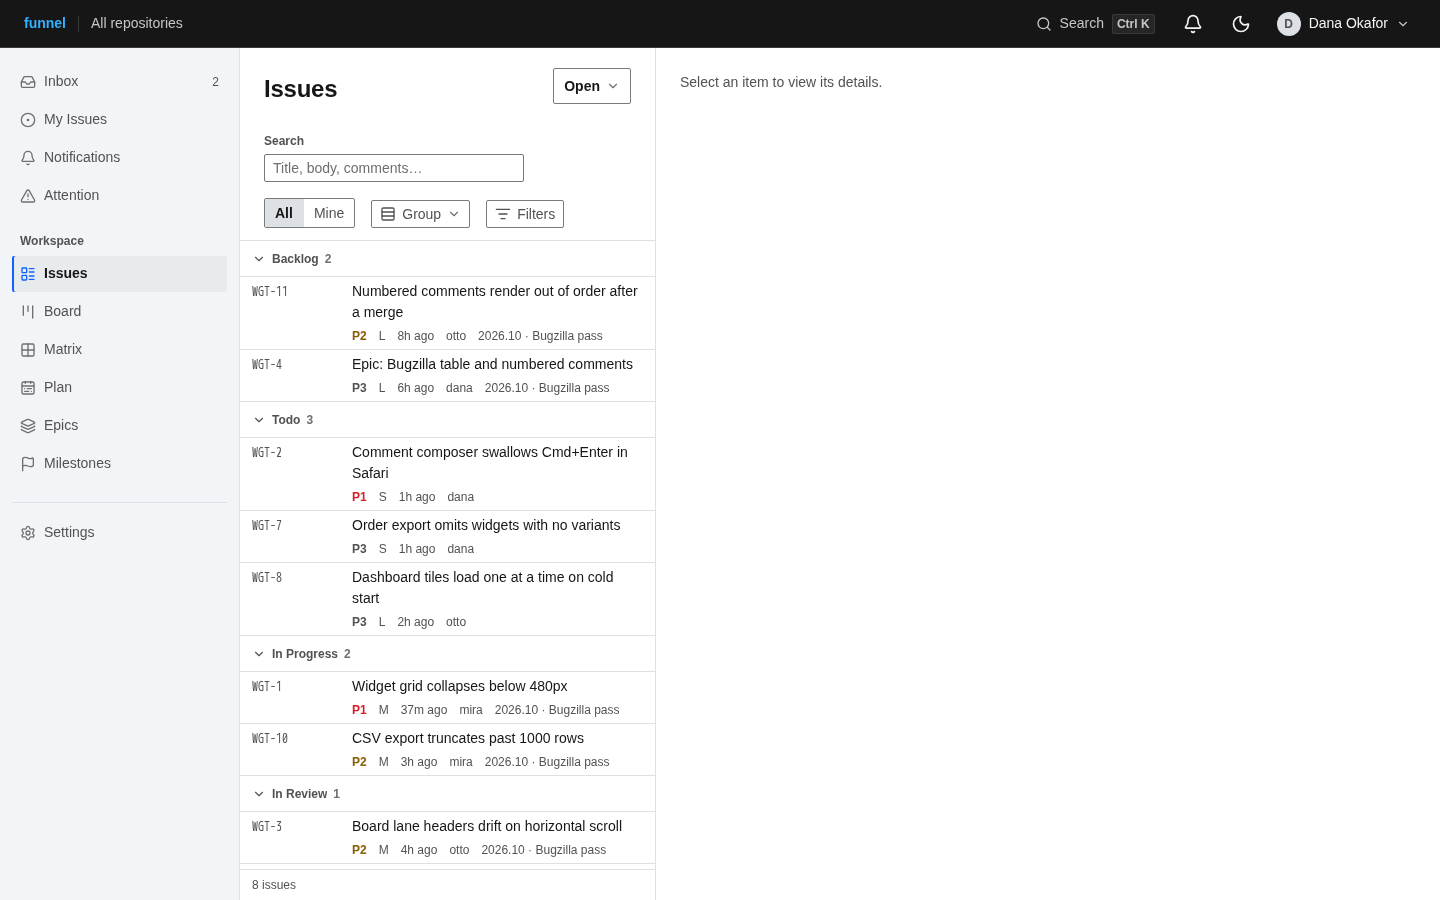
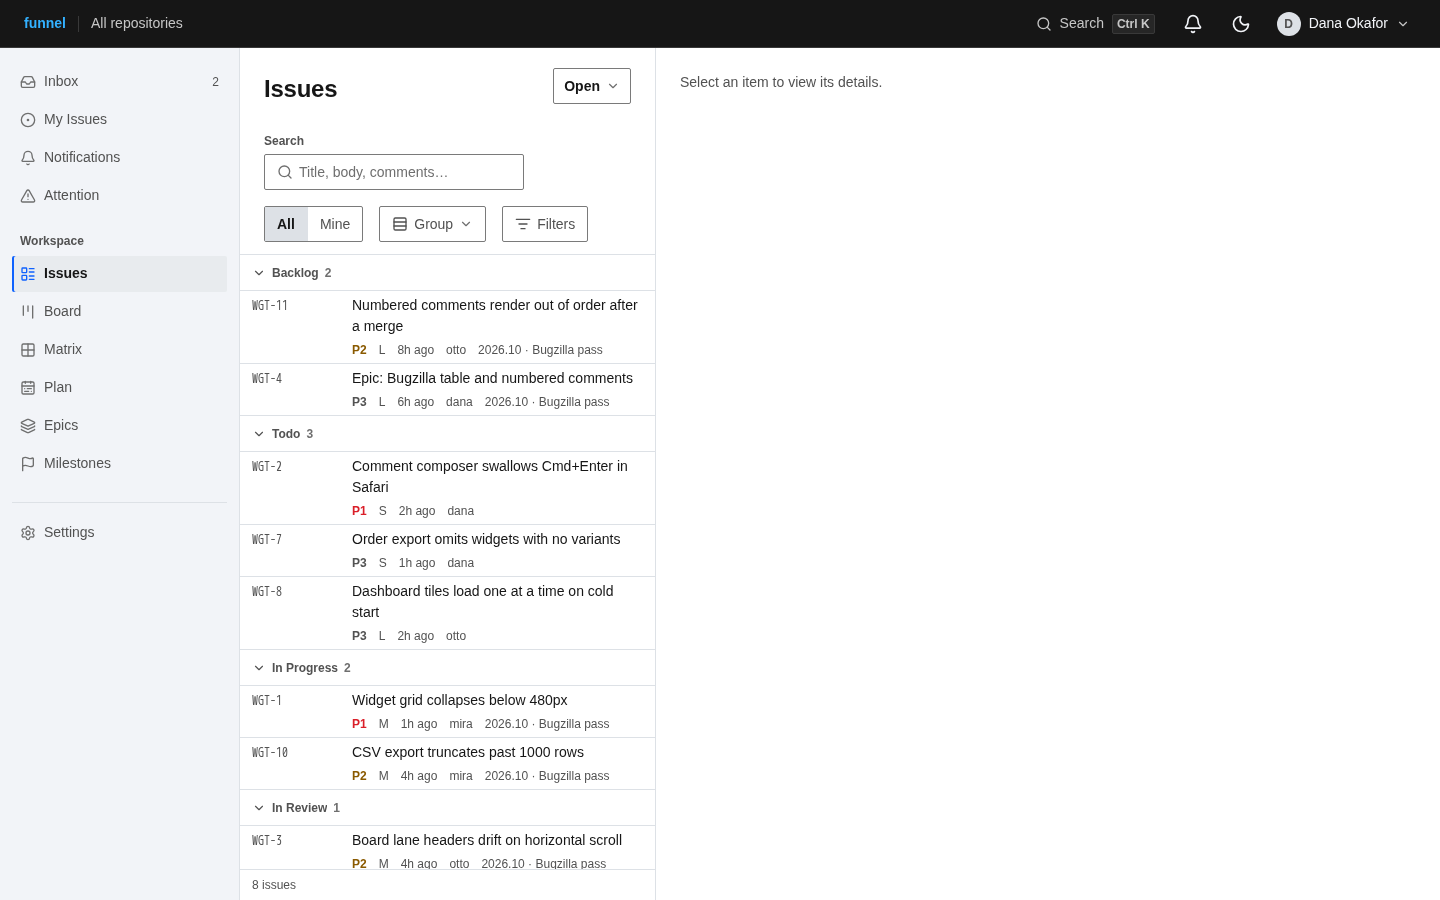
fix(design): tighten search, composer, and settings header

diff --git a/src/routes/(app)/settings/+layout.svelte b/src/routes/(app)/settings/+layout.svelte
@@ -44,68 +44,69 @@
 
 <PageHead title={`${active.label} · Settings`} />
 
-<div class="flex min-h-0 min-w-0 flex-1 flex-col overflow-hidden">
-	<PageHeader title={active.label} description={active.description} />
+<!-- The nav starts directly under the app bar; the title lives in the content
+     column so the surface column and canvas meet at one edge instead of a
+     full-width header band. The nav's top inset aligns “Personal” with the h1. -->
+<div class="flex min-h-0 min-w-0 flex-1 overflow-hidden">
+	<nav
+		class="hidden w-[var(--layout-settings-nav)] shrink-0 overflow-y-auto border-r border-border-subtle bg-surface pt-6 pb-4 lg:block"
+		aria-label="Settings"
+	>
+		{#each groups as group (group.id)}
+			<div class="mb-2">
+				<p class="px-2 pb-1 text-caption font-semibold text-fg-secondary">{group.label}</p>
+				<ul>
+					{#each group.sections as section (section.id)}
+						{@const Icon = section.icon}
+						<li>
+							<a
+								href={section.href}
+								aria-current={active.id === section.id ? 'page' : undefined}
+								class="flex min-h-(--size-control-md) items-center gap-2 rounded-sm px-2 text-body text-fg-secondary {active.id ===
+								section.id
+									? 'is-selected-nav'
+									: 'hover:bg-surface-2'}"
+							>
+								<span class="flex size-4 shrink-0 items-center justify-center {active.id === section.id ? 'text-primary' : 'text-fg-muted'}">
+									<Icon class="size-4" aria-hidden="true" />
+								</span>
+								<span class="truncate">{section.label}</span>
+							</a>
+						</li>
+					{/each}
+				</ul>
+			</div>
+		{/each}
+	</nav>
 
-	<div class="flex min-h-0 min-w-0 flex-1 overflow-hidden">
-		<nav
-			class="hidden w-[var(--layout-settings-nav)] shrink-0 overflow-y-auto border-r border-border-subtle bg-surface py-4 lg:block"
-			aria-label="Settings"
-		>
-			{#each groups as group (group.id)}
-				<div class="mb-2">
-					<p class="px-2 pb-1 text-caption font-semibold text-fg-secondary">{group.label}</p>
-					<ul>
-						{#each group.sections as section (section.id)}
-							{@const Icon = section.icon}
-							<li>
-								<a
-									href={section.href}
-									aria-current={active.id === section.id ? 'page' : undefined}
-									class="flex min-h-(--size-control-md) items-center gap-2 rounded-sm px-2 text-body text-fg-secondary {active.id ===
-									section.id
-										? 'is-selected-nav'
-										: 'hover:bg-surface-2'}"
-								>
-									<span class="flex size-4 shrink-0 items-center justify-center {active.id === section.id ? 'text-primary' : 'text-fg-muted'}">
-										<Icon class="size-4" aria-hidden="true" />
-									</span>
-									<span class="truncate">{section.label}</span>
-								</a>
-							</li>
-						{/each}
-					</ul>
-				</div>
-			{/each}
-		</nav>
+	<div class="min-h-0 min-w-0 flex-1 overflow-y-auto">
+		<PageHeader title={active.label} description={active.description} />
 
-		<div class="min-h-0 min-w-0 flex-1 overflow-y-auto">
-			<div class="px-[var(--layout-page-padding)] py-6">
-				<div class="mb-6 flex max-w-[var(--layout-form-max)] flex-col gap-1 lg:hidden">
-					<label class="text-caption font-semibold text-fg-secondary" for="settings-section">
-						Settings section
-					</label>
-					<NativeSelect.Root
-						id="settings-section"
-						value={active.href}
-						onchange={navigateTo}
-						class="w-full"
-					>
-						{#each groups as group (group.id)}
-							<NativeSelect.OptGroup label={group.label}>
-								{#each group.sections as section (section.id)}
-									<NativeSelect.Option value={section.href}>
-										{section.label}
-									</NativeSelect.Option>
-								{/each}
-							</NativeSelect.OptGroup>
-						{/each}
-					</NativeSelect.Root>
-				</div>
+		<div class="px-[var(--layout-page-padding)] pb-6">
+			<div class="mb-6 flex max-w-[var(--layout-form-max)] flex-col gap-1 lg:hidden">
+				<label class="text-caption font-semibold text-fg-secondary" for="settings-section">
+					Settings section
+				</label>
+				<NativeSelect.Root
+					id="settings-section"
+					value={active.href}
+					onchange={navigateTo}
+					class="w-full"
+				>
+					{#each groups as group (group.id)}
+						<NativeSelect.OptGroup label={group.label}>
+							{#each group.sections as section (section.id)}
+								<NativeSelect.Option value={section.href}>
+									{section.label}
+								</NativeSelect.Option>
+							{/each}
+						</NativeSelect.OptGroup>
+					{/each}
+				</NativeSelect.Root>
+			</div>
 
-				<div class="w-full max-w-[var(--layout-settings-max)]">
-					{@render children()}
-				</div>
+			<div class="w-full max-w-[var(--layout-settings-max)]">
+				{@render children()}
 			</div>
 		</div>
 	</div>

diff --git a/src/lib/components/filter/FeedSearch.svelte b/src/lib/components/filter/FeedSearch.svelte
@@ -2,18 +2,26 @@
 	import { untrack } from 'svelte';
 	import { goto } from '$app/navigation';
 	import { page } from '$app/state';
-	import { Input } from '#lib/components/ui/input';
+	import * as InputGroup from '#lib/components/ui/input-group';
 	import { buildFilterUrl, parseFilterParams } from '#lib/url-filter';
+	import SearchIcon from '@lucide/svelte/icons/search';
+	import XIcon from '@lucide/svelte/icons/x';
 
 	/**
-	 * Compact full-text search for the feed column. Owns the same `q` parameter
-	 * as the classic Filter Bar and keeps the shared `#issue-search` id so the
-	 * global ⌘K shortcut can focus it.
+	 * Full-text search for the feed column. Owns the same `q` parameter as the
+	 * classic Filter Bar and keeps the shared `#issue-search` id so the global
+	 * ⌘K shortcut can focus it.
+	 *
+	 * Geometry matches the standard field: 2.25rem high, 12px leading inset.
+	 * A leading icon identifies the field and a trailing clear control appears
+	 * only when there is a query, so the browser's own search affordance is
+	 * suppressed rather than doubled.
 	 */
 	const filter = $derived(parseFilterParams(page.url.searchParams));
 
 	let search = $state(untrack(() => filter.search));
 	let focused = $state(false);
+	let input = $state<HTMLInputElement | null>(null);
 	let debounce: ReturnType<typeof setTimeout> | undefined;
 
 	$effect(() => {
@@ -37,19 +45,42 @@
 			);
 		}, 250);
 	}
+
+	function clear() {
+		onInput('');
+		input?.focus();
+	}
 </script>
 
-<label class="flex w-full min-w-0 flex-col gap-1 sm:w-[var(--layout-search-field)] sm:flex-none">
-	<span class="text-caption font-semibold text-fg-secondary">Search</span>
-	<Input
-		id="issue-search"
-		type="search"
-		class="h-(--size-control-sm) min-w-0 px-2"
-		placeholder="Title, body, comments…"
-		value={search}
-		oninput={(e) => onInput(e.currentTarget.value)}
-		onfocus={() => (focused = true)}
-		onblur={() => (focused = false)}
-		aria-label="Search issues"
-	/>
-</label>
+<div class="flex w-full min-w-0 flex-col gap-1 sm:w-[var(--layout-search-field)] sm:flex-none">
+	<label for="issue-search" class="text-caption font-semibold text-fg-secondary">Search</label>
+	<InputGroup.Root>
+		<InputGroup.Addon align="inline-start" class="pl-3 text-fg-muted">
+			<SearchIcon class="size-4" aria-hidden="true" />
+		</InputGroup.Addon>
+		<InputGroup.Input
+			bind:ref={input}
+			id="issue-search"
+			type="search"
+			class="px-2 [&::-webkit-search-cancel-button]:appearance-none"
+			placeholder="Title, body, comments…"
+			value={search}
+			oninput={(event) => onInput(event.currentTarget.value)}
+			onfocus={() => (focused = true)}
+			onblur={() => (focused = false)}
+			aria-label="Search issues"
+		/>
+		{#if search}
+			<InputGroup.Addon align="inline-end" class="pr-1">
+				<button
+					type="button"
+					class="inline-flex size-(--size-control-sm) items-center justify-center rounded-sm text-fg-muted hover:bg-surface hover:text-fg focus-visible:outline-2 focus-visible:outline-offset-2 focus-visible:outline-ring"
+					aria-label="Clear search"
+					onclick={clear}
+				>
+					<XIcon class="size-4" aria-hidden="true" />
+				</button>
+			</InputGroup.Addon>
+		{/if}
+	</InputGroup.Root>
+</div>

diff --git a/src/lib/components/detail/Composer.svelte b/src/lib/components/detail/Composer.svelte
@@ -5,6 +5,7 @@
 	import * as InputGroup from '#lib/components/ui/input-group';
 	import * as Kbd from '#lib/components/ui/kbd';
 	import { cn } from '#lib/utils';
+	import MessageSquareIcon from '@lucide/svelte/icons/message-square';
 	import PaperclipIcon from '@lucide/svelte/icons/paperclip';
 
 	/**
@@ -117,14 +118,20 @@
 	}
 </script>
 
-<div bind:this={root}>
+<div bind:this={root} class="relative">
 	<InputGroup.Root class="border-border-strong bg-canvas">
+		{#if !expanded}
+			<MessageSquareIcon
+				class="pointer-events-none absolute top-1/2 left-3 size-4 -translate-y-1/2 text-fg-muted"
+				aria-hidden="true"
+			/>
+		{/if}
 		<InputGroup.Textarea
 			class={cn(
-				'px-3 text-body leading-body',
+				'text-body leading-body',
 				expanded
-					? 'min-h-24 resize-y py-2'
-					: 'h-(--size-control-md) min-h-(--size-control-md) resize-none py-2'
+					? 'min-h-24 resize-y px-3 py-3'
+					: 'h-(--size-control-comfortable) min-h-(--size-control-comfortable) resize-none py-2.5 pr-3 pl-9'
 			)}
 			placeholder={effectivePlaceholder}
 			value={value}
@@ -138,7 +145,7 @@
 
 		<InputGroup.Addon
 			align="block-end"
-			class={cn('cursor-default justify-between gap-3 px-2 pt-1 pb-2', !expanded && 'hidden')}
+			class={cn('cursor-default justify-between gap-3 px-3 pt-1 pb-3', !expanded && 'hidden')}
 		>
 			<div class="flex min-w-0 items-center gap-2">
 				<button

diff --git a/src/lib/components/issue/InspectorPane.svelte b/src/lib/components/issue/InspectorPane.svelte
@@ -264,9 +264,9 @@
 
 	/** Shared geometry for the values in the header triage strip. */
 	const triageControlClass =
-		'inline-flex h-(--size-control-md) max-w-full min-w-0 items-center gap-1.5 rounded-sm px-2 text-left text-body text-fg hover:bg-surface focus-visible:outline-2 focus-visible:outline-offset-2 focus-visible:outline-ring disabled:pointer-events-none disabled:text-fg-disabled';
+		'inline-flex h-(--size-control-md) max-w-full min-w-0 items-center gap-1.5 rounded-sm px-3 text-left text-body text-fg hover:bg-surface focus-visible:outline-2 focus-visible:outline-offset-2 focus-visible:outline-ring disabled:pointer-events-none disabled:text-fg-disabled';
 	const triageValueClass =
-		'inline-flex min-h-(--size-control-md) max-w-full min-w-0 items-center gap-1.5 px-2 text-body text-fg';
+		'inline-flex min-h-(--size-control-md) max-w-full min-w-0 items-center gap-1.5 px-3 text-body text-fg';
 
 	/** Label for the mobile back link; the Issues route says “← Issues”. */
 	const backLabel = $derived.by(() => {

diff --git a/src/lib/components/filter/FilterPopover.svelte b/src/lib/components/filter/FilterPopover.svelte
@@ -153,7 +153,7 @@
 
 <Popover.Root bind:open>
 	<Popover.Trigger
-		class="inline-flex h-(--size-control-sm) shrink-0 items-center gap-1.5 rounded-sm border border-border-strong bg-canvas px-2 text-body text-fg-secondary hover:bg-surface hover:text-fg data-[state=open]:bg-surface-2 data-[state=open]:text-fg"
+		class="inline-flex h-(--size-control-md) shrink-0 items-center gap-1.5 rounded-sm border border-border-strong bg-canvas px-3 text-body text-fg-secondary hover:bg-surface hover:text-fg data-[state=open]:bg-surface-2 data-[state=open]:text-fg"
 	>
 		<ListFilterIcon class="size-4 shrink-0" aria-hidden="true" />
 		<span>Filters</span>

diff --git a/src/lib/components/issue/GroupByControl.svelte b/src/lib/components/issue/GroupByControl.svelte
@@ -34,7 +34,7 @@
 
 <DropdownMenu.Root>
 	<DropdownMenu.Trigger
-		class="inline-flex h-(--size-control-sm) shrink-0 items-center gap-1.5 rounded-sm border border-border-strong bg-canvas px-2 text-body text-fg-secondary hover:bg-surface hover:text-fg data-[state=open]:bg-surface-2 data-[state=open]:text-fg"
+		class="inline-flex h-(--size-control-md) shrink-0 items-center gap-1.5 rounded-sm border border-border-strong bg-canvas px-3 text-body text-fg-secondary hover:bg-surface hover:text-fg data-[state=open]:bg-surface-2 data-[state=open]:text-fg"
 	>
 		<Rows3Icon class="size-4 shrink-0" aria-hidden="true" />
 		<span>Group</span>

diff --git a/src/lib/components/filter/ViewSegment.svelte b/src/lib/components/filter/ViewSegment.svelte
@@ -56,14 +56,14 @@
 </script>
 
 <nav
-	class="inline-flex shrink-0 overflow-hidden rounded-sm border border-border-strong bg-canvas"
+	class="inline-flex h-(--size-control-md) shrink-0 overflow-hidden rounded-sm border border-border-strong bg-canvas"
 	aria-label="Issue scope"
 >
 	{#each items as item, index (item.label)}
 		<a
 			href={item.href}
 			class={cn(
-				'inline-flex h-(--size-control-sm) items-center px-2.5 text-body',
+				'inline-flex items-center px-3 text-body',
 				index > 0 && 'border-l border-border-subtle',
 				item.active
 					? 'bg-surface-2 font-semibold text-fg'

diff --git a/src/lib/components/issue/issue-detail-ui.test.ts b/src/lib/components/issue/issue-detail-ui.test.ts
@@ -37,7 +37,9 @@ describe("issue detail", () => {
 
 	test("test_composer_is_a_compact_prompt_that_expands_in_place", () => {
 		expect(composer).toContain("const expanded = $derived(!collapsed && (open || hasDraft));");
-		expect(composer).toContain("h-(--size-control-md)");
+		expect(composer).toContain("h-(--size-control-comfortable)");
+		expect(composer).toContain("pl-9");
+		expect(composer).toContain("message-square");
 		expect(composer).toContain("event.metaKey || event.ctrlKey");
 		expect(composer).toContain("event.key === 'Escape'");
 	});

diff --git a/src/lib/styles/tokens.css b/src/lib/styles/tokens.css
@@ -100,6 +100,7 @@
   /* Sizes */
   --size-control-sm: 1.75rem;
   --size-control-md: 2.25rem;
+  --size-control-comfortable: 2.625rem;
   --size-control-lg: 2.75rem;
   --size-row-compact: 2.25rem;
   --size-row-default: 2.75rem;
@@ -212,6 +213,7 @@
     --layout-page-padding: var(--space-4);
     --size-control-sm: var(--size-control-lg);
     --size-control-md: var(--size-control-lg);
+    --size-control-comfortable: var(--size-control-lg);
     --size-row-compact: var(--size-row-default);
     --size-row-default: var(--size-row-comfortable);
   }

diff --git a/src/routes/(app)/settings/appearance/+page.svelte b/src/routes/(app)/settings/appearance/+page.svelte
@@ -49,7 +49,7 @@
 			value={choice}
 			onValueChange={change}
 			aria-label="Theme"
-			class="mt-4 gap-1"
+			class="mt-4 gap-2"
 		>
 			{#each options as option (option.value)}
 				<RadioGroup.Item

diff --git a/docs/plans/2026-11-02-t128n-polish.md b/docs/plans/2026-11-02-t128n-polish.md
@@ -241,3 +241,17 @@ unresolved limitation.
 No repository-level `AGENTS.md` exists in the repository, workspace root, or
 worktree; the implementation followed the repo design docs plus the current
 `t128n/design` skill references.
+
+### Follow-up: named visual defects
+
+- Search is a standard 2.25rem field with a 1rem leading search icon, a 12px
+  leading inset, and a clear control that appears only when there is a query.
+  The scope segment, Group, and Filters triggers share the same 36px baseline.
+- The inspector composer is 2.625rem at rest (44px on touch) with a comment
+  glyph and 12px horizontal inset; it keeps 12px padding when expanded. Triage
+  values now use a 12px inset.
+- The Settings nav starts directly under the app bar and the title lives in the
+  content column, so the surface and canvas meet at one edge instead of a
+  full-width title band. “Personal” aligns with the h1.
+- Appearance theme options use 8px spacing while staying grouped by spacing
+  alone.
